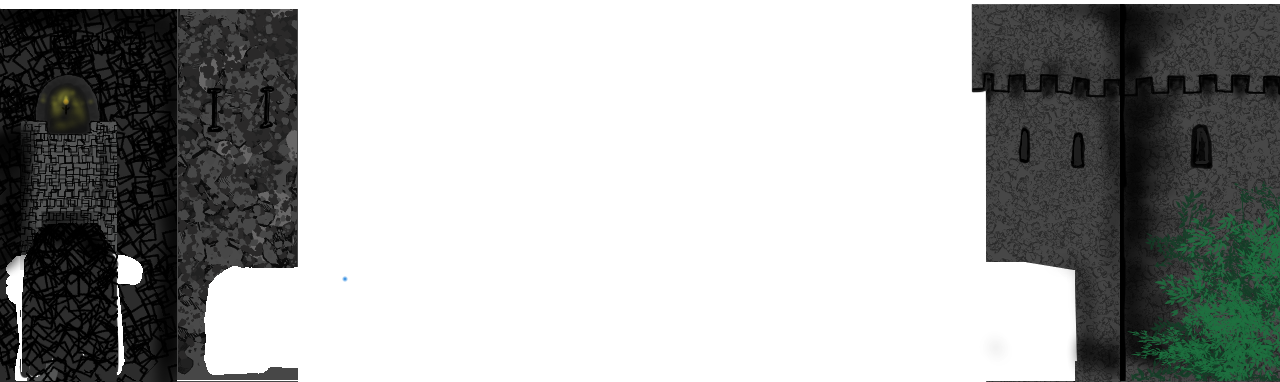
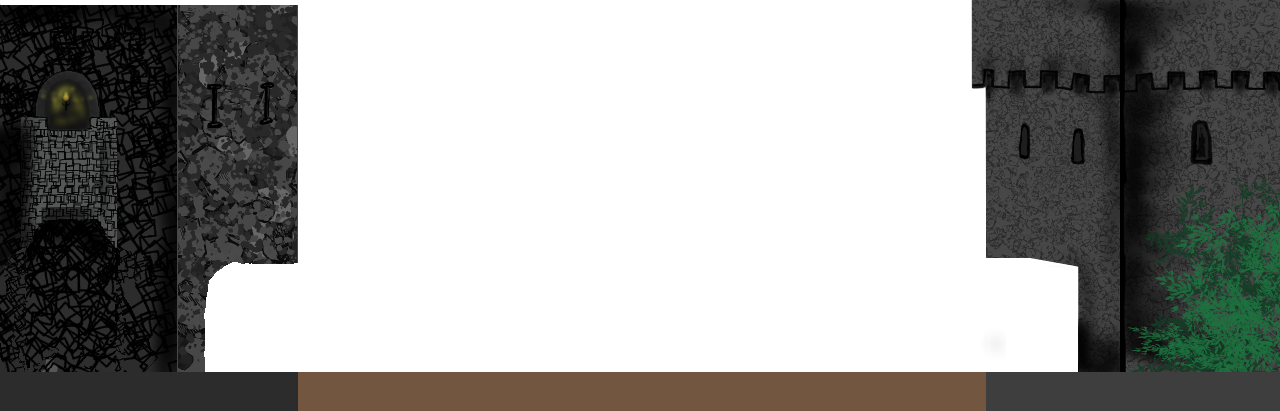
Texture and animation things

diff --git a/CMP303Project/PlayerObject.cpp b/CMP303Project/PlayerObject.cpp
@@ -24,17 +24,24 @@ PlayerObject::PlayerObject()
 
 	//initalise animations
 	idleAni.addFrame(sf::IntRect(0, 0, 50, 50));
+	idleAni.addFrame(sf::IntRect(0, 0, 50, 50));
+	idleAni.addFrame(sf::IntRect(0, 0, 50, 50));
+	idleAni.addFrame(sf::IntRect(50, 0, 50, 50));
 	idleAni.addFrame(sf::IntRect(50, 0, 50, 50));
 	idleAni.addFrame(sf::IntRect(100, 0, 50, 50));
 	idleAni.addFrame(sf::IntRect(150, 0, 50, 50));
 	idleAni.addFrame(sf::IntRect(200, 0, 50, 50));
-	idleAni.addFrame(sf::IntRect(250, 0, 50, 50));
-	idleAni.addFrame(sf::IntRect(200, 0, 50, 50));
 	idleAni.addFrame(sf::IntRect(150, 0, 50, 50));
-	idleAni.addFrame(sf::IntRect(100, 0, 50, 50));
+	idleAni.addFrame(sf::IntRect(300, 0, 50, 50));
+	idleAni.addFrame(sf::IntRect(50, 0, 50, 50));
 	idleAni.addFrame(sf::IntRect(50, 0, 50, 50));
 	idleAni.addFrame(sf::IntRect(0, 0, 50, 50));
-	idleAni.setFrameSpeed(0.25f);
+	idleAni.addFrame(sf::IntRect(0, 0, 50, 50));
+	idleAni.addFrame(sf::IntRect(0, 0, 50, 50));
+	idleAni.addFrame(sf::IntRect(50, 0, 50, 50));
+	idleAni.addFrame(sf::IntRect(50, 0, 50, 50));
+	idleAni.addFrame(sf::IntRect(50, 0, 50, 50));
+	idleAni.setFrameSpeed(0.2f);
 
 	walkingAni.addFrame(sf::IntRect(32, 0, 16, 16));
 	walkingAni.addFrame(sf::IntRect(48, 0, 16, 16));

diff --git a/CMP303Project/GameLevel.cpp b/CMP303Project/GameLevel.cpp
@@ -71,9 +71,9 @@ GameLevel::GameLevel(sf::RenderWindow* hwnd, Input* in, GameState* gs, AudioMana
 	// ground
 	groundTexture.loadFromFile("gfx/Front_grass_layer.png");
 	ground.setTexture(&groundTexture);
-	ground.setSize(sf::Vector2f(1280, 75));
-	ground.setPosition(sf::Vector2f(0, 645));
-	ground.setCollisionBox(0, 33, 1280, 42);
+	ground.setSize(sf::Vector2f(1280, 60));
+	ground.setPosition(sf::Vector2f(0, 660));
+	ground.setCollisionBox(0, 24, 1280, 36);
 
 	// background
 	backgroundTexture.loadFromFile("gfx/Sky_backround.png");
@@ -335,13 +335,9 @@ void GameLevel::updateGame(float dt)
 	{
 		player.collisionResponse(&towerRightFront);
 	}
-	if (Collision::checkBoundingBox(&opponent, &towerLeftFront))
+	if (Collision::checkBoundingBox(&player, &ground))
 	{
-		opponent.collisionResponse(&towerLeftFront);
-	}
-	if (Collision::checkBoundingBox(&opponent, &towerRightFront))
-	{
-		opponent.collisionResponse(&towerRightFront);
+		player.collisionResponse(&ground);
 	}
 
 

diff --git a/CMP303Project/MenuLevel.cpp b/CMP303Project/MenuLevel.cpp
@@ -20,7 +20,7 @@ MenuLevel::MenuLevel(sf::RenderWindow* hwnd, Input* in, GameState* gs, AudioMana
 	controlsText.setFont(font);
 	controlsText.setCharacterSize(24);
 	controlsText.setFillColor(sf::Color::White);
-	controlsText.setString("Controls Here \n\nESC to pause.");
+	controlsText.setString("Use ImGUI interface to host or connect to a game,\npress space to toggle ImGUI in-game.\n\nUse A and D to move left and right.\nTo aim your crossbow click and hold on your character\nand drag in the inverse direction like a slingshot.\n\nESC to pause.");
 	controlsText.setPosition(view.getCenter().x - (controlsText.getLocalBounds().width / 2), 192);
 
 

diff --git a/CMP303Project/NetworkedGame.cpp b/CMP303Project/NetworkedGame.cpp
@@ -350,7 +350,12 @@ void NetworkedGame::levelChanges()
 
 void NetworkedGame::gui()
 {
-	if (currentGameState.getCurrentState() == State::MENU || displayGUIInGame)
+	if (input.isKeyDown(sf::Keyboard::Space) && currentGameState.getCurrentState() != State::MENU)
+	{
+		input.setKeyUp(sf::Keyboard::Space);
+		displayGUIInGame = !displayGUIInGame;
+	}
+	if (currentGameState.getCurrentState() == State::MENU || displayGUIInGame) //Always display on the main menu, toggleable elsewhere
 	{
 		//ImGui stuff
 		ImGui::SFML::Update(*window, deltaTime);
